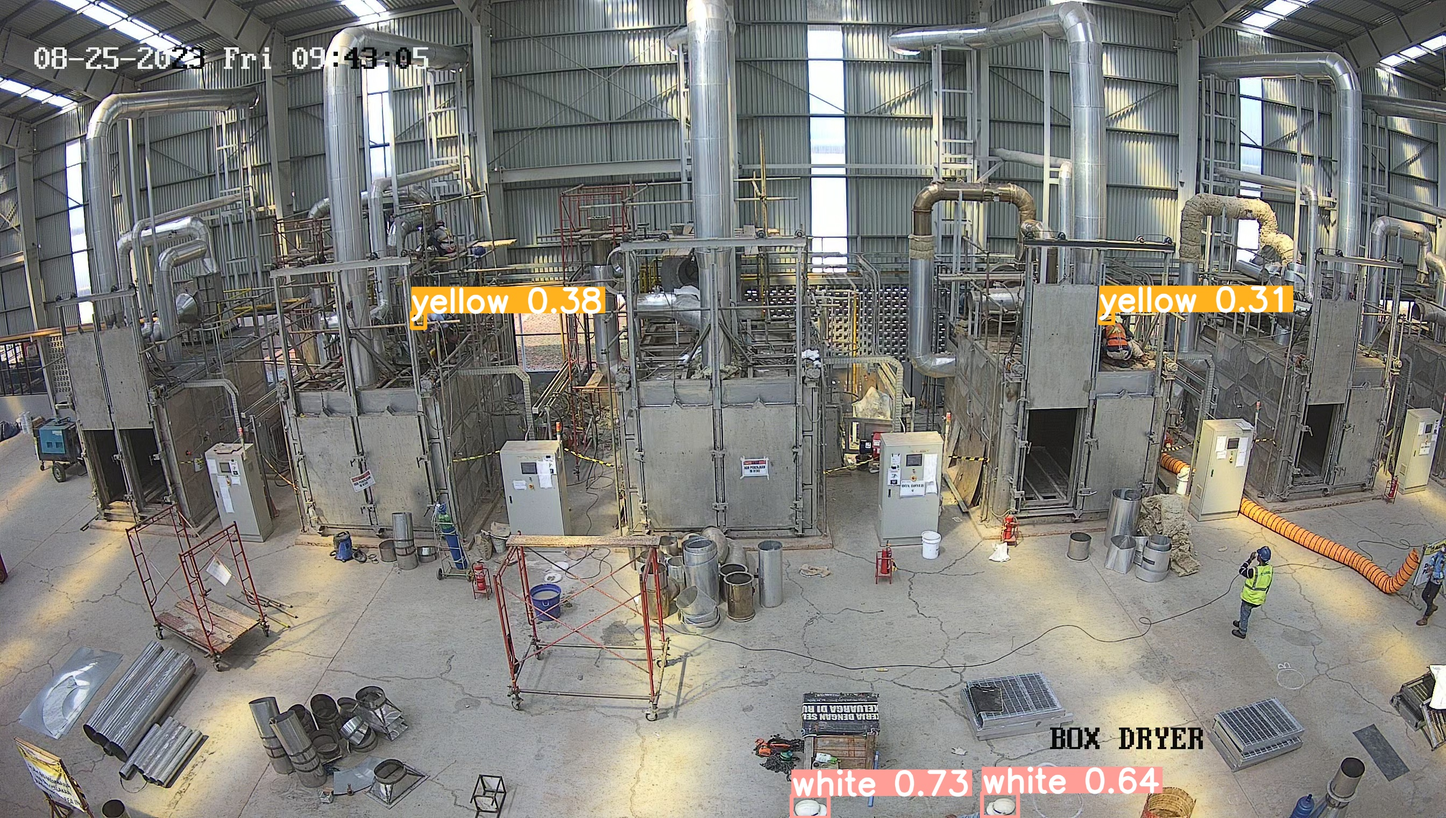
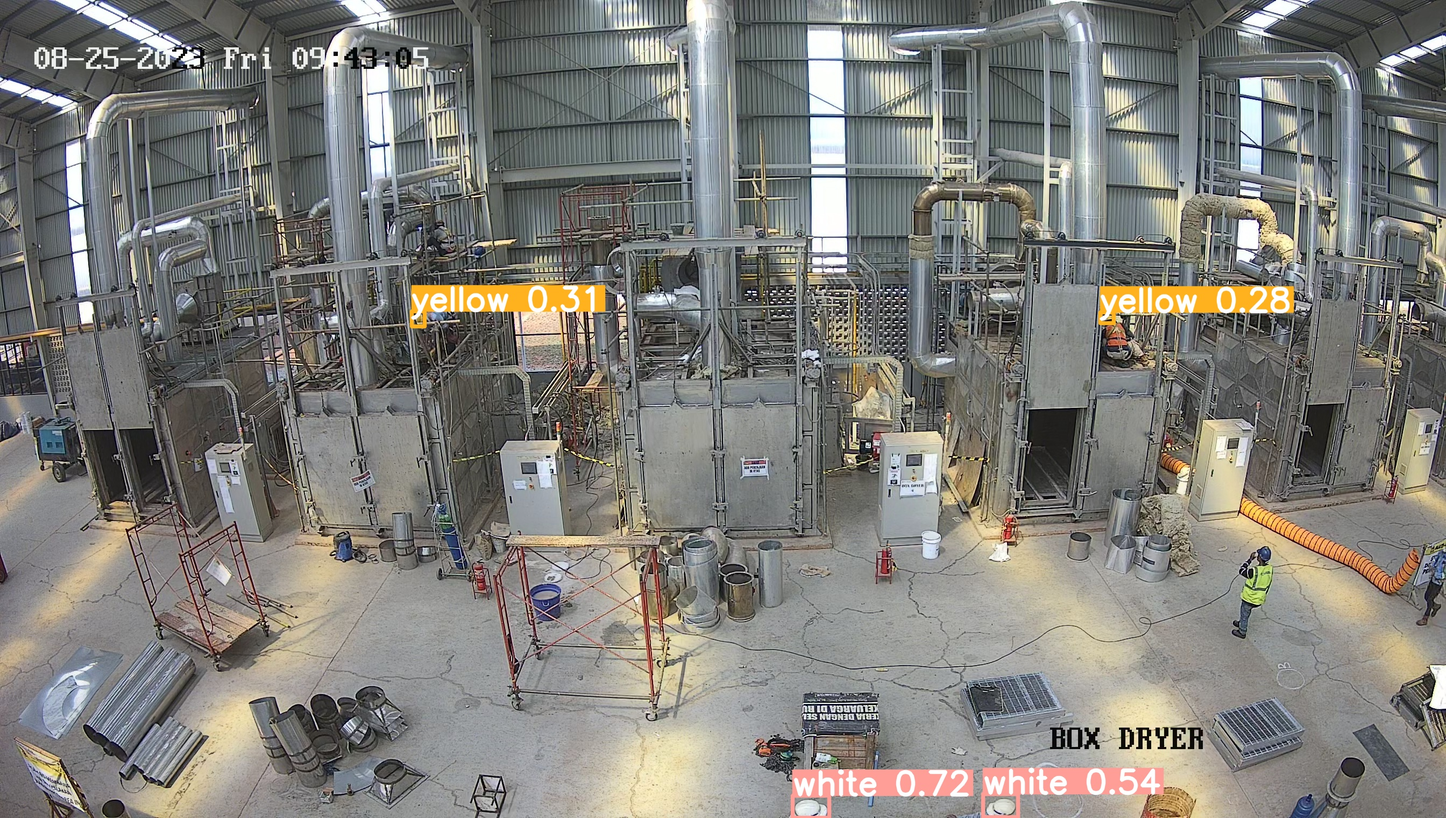
feat: add tracker for video

diff --git a/detect.py b/detect.py
@@ -1,0 +1,35 @@
+from ultralytics import YOLO
+import cv2
+
+# Load a model
+model = YOLO('yolov8n.pt')  # load an official model
+model = YOLO('D:/2023/Coding/project/yolo/yolo/dataset/runs/detect/train/weights/best.pt')  # load a custom model
+source = 'D:/2023/Coding/project/yolo/yolo/dataset/D09_20230825094234.mp4'
+
+cap = cv2.VideoCapture(source)
+
+# Loop through the video frames
+while cap.isOpened():
+    # Read a frame from the video
+    success, frame = cap.read()
+
+    if success:
+        # Run YOLOv8 inference on the frame
+        results = model(frame)
+
+        # Visualize the results on the frame
+        annotated_frame = results[0].plot()
+
+        # Display the annotated frame
+        cv2.imshow("YOLOv8 Inference", annotated_frame)
+
+        # Break the loop if 'q' is pressed
+        if cv2.waitKey(1) & 0xFF == ord("q"):
+            break
+    else:
+        # Break the loop if the end of the video is reached
+        break
+
+# Release the video capture object and close the display window
+cap.release()
+cv2.destroyAllWindows()

diff --git a/predict.py b/predict.py
@@ -1,11 +1,12 @@
 from ultralytics import YOLO
+import cv2
 
 # Load a model
 model = YOLO('yolov8n.pt')  # load an official model
 model = YOLO('D:/2023/Coding/project/yolo/yolo/dataset/runs/detect/train/weights/best.pt')  # load a custom model
 
 # Predict with the model
-results = model('D:/2023/Coding/project/yolo/yolo/dataset/images/Testing/frame800.jpg')  # predict on an image
+results = model('D:/2023/Coding/project/yolo/yolo/dataset/D09_20230825094234.mp4g')  # predict on an image
 
 for result in results:
     boxes = result.boxes  # Boxes object for bounding box outputs
@@ -14,10 +15,3 @@ for result in results:
     probs = result.probs  # Probs object for classification outputs
     result.show()  # display to screen
     result.save(filename='result.jpg')  # save to disk
-    
-## for video
-# Define path to video file
-# source = 'path/to/video.mp4'
-
-# # Run inference on the source
-# results = model(source, stream=True)  # generator of Results objects
